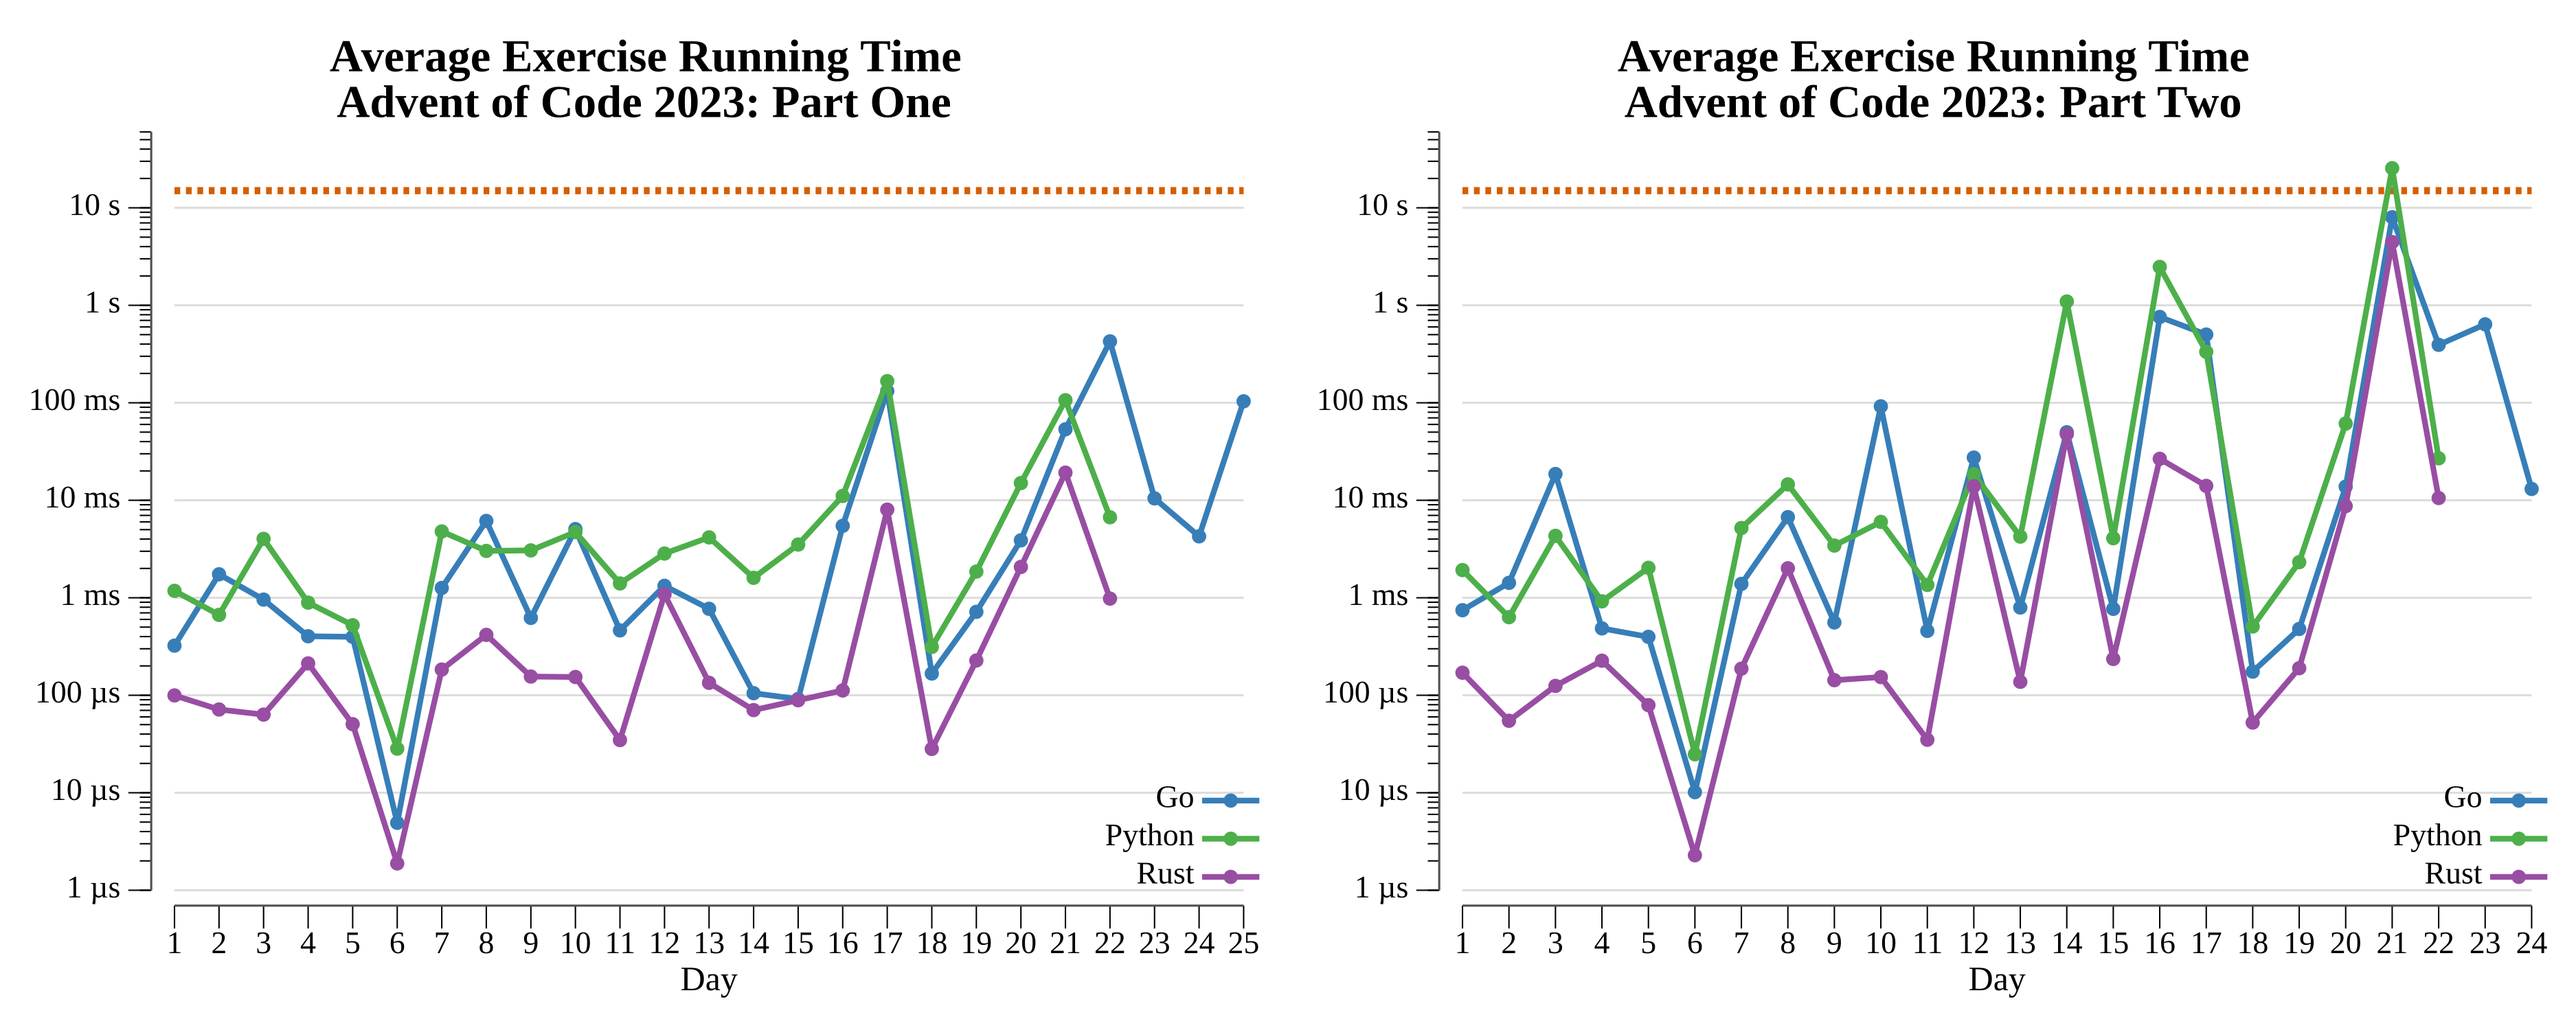
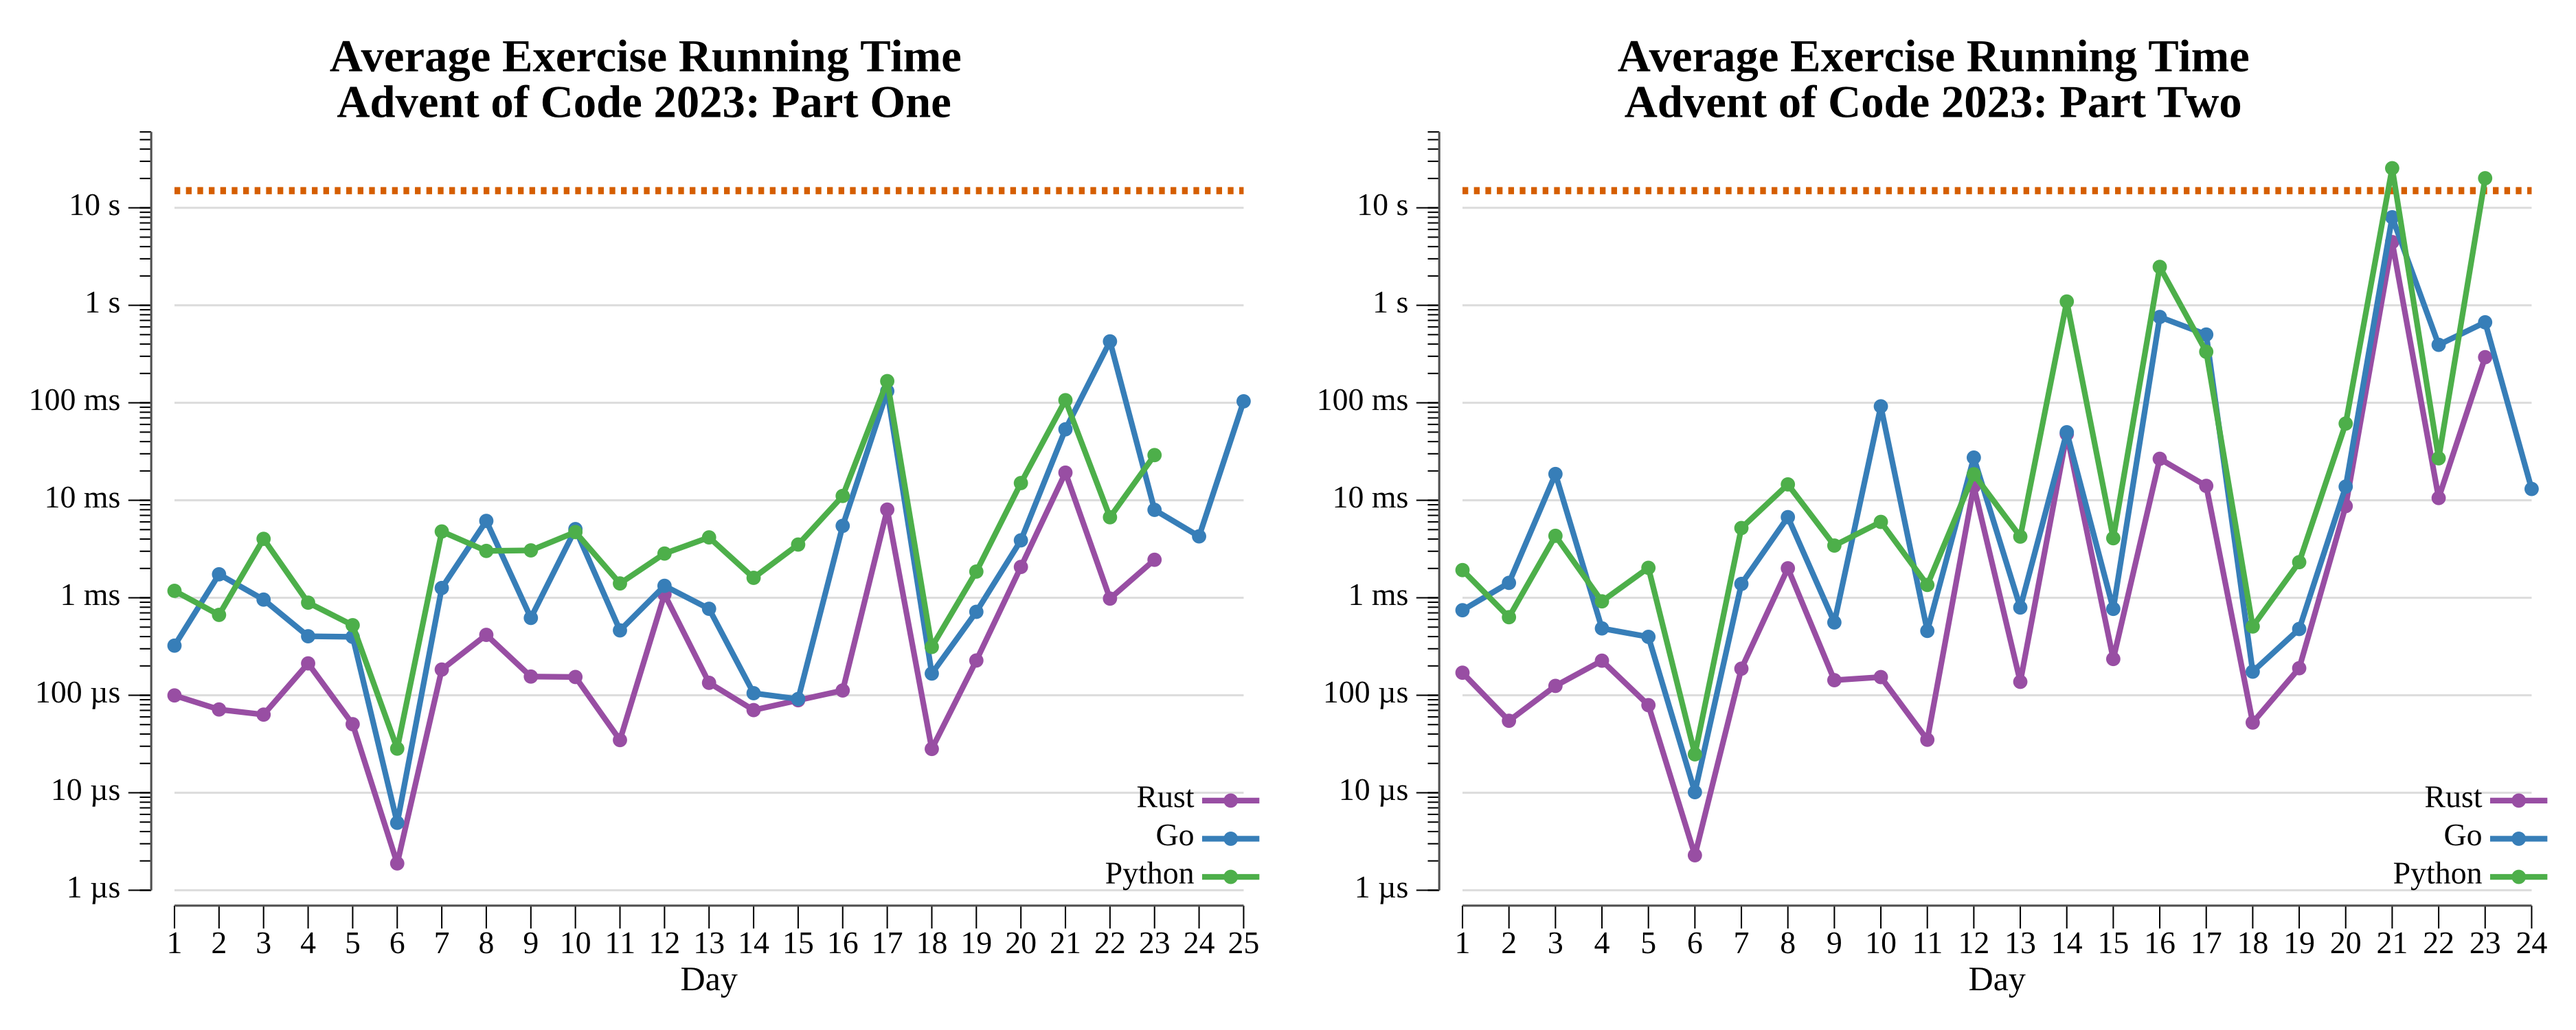
add rust/py to 2023 day 23

diff --git a/exercises/2023/23-aLongWalk/rs/src/solution.rs b/exercises/2023/23-aLongWalk/rs/src/solution.rs
@@ -1,0 +1,110 @@
+// Solution for Advent of Code 2023 day 23.
+//
+// We want the longest hike from top to bottom without revisiting a tile. The
+// trails collapse to a small graph of junctions (cells with more than two open
+// neighbors) joined by weighted corridors, so the longest-path search runs over
+// ~36 nodes instead of thousands of cells. Part one honors the slopes as one-way
+// edges; part two treats them as normal paths (edges become bidirectional).
+// Nodes are indexed so the DFS "visited" set is a u64 bitmask.
+
+use std::collections::HashMap;
+
+const NEIGHBORS: [(i32, i32); 4] = [(-1, 0), (1, 0), (0, -1), (0, 1)];
+
+fn slope_dir(tile: u8) -> Option<(i32, i32)> {
+    match tile {
+        b'^' => Some((-1, 0)),
+        b'v' => Some((1, 0)),
+        b'<' => Some((0, -1)),
+        b'>' => Some((0, 1)),
+        _ => None,
+    }
+}
+
+/// Build the compressed adjacency (node index -> [(neighbor index, length)]),
+/// returning it along with the start and end node indices.
+fn compress(grid: &[&[u8]], slippery: bool) -> (Vec<Vec<(usize, u32)>>, usize, usize) {
+    let (rows, cols) = (grid.len() as i32, grid[0].len() as i32);
+    let open = |r: i32, c: i32| {
+        r >= 0 && c >= 0 && r < rows && c < cols && grid[r as usize][c as usize] != b'#'
+    };
+
+    let start = (0i32, grid[0].iter().position(|&b| b == b'.').unwrap() as i32);
+    let end = (
+        rows - 1,
+        grid[rows as usize - 1].iter().position(|&b| b == b'.').unwrap() as i32,
+    );
+
+    // Collect junctions: start, end, and any cell with >2 open neighbors.
+    let mut nodes = vec![start, end];
+    for r in 0..rows {
+        for c in 0..cols {
+            if open(r, c) && NEIGHBORS.iter().filter(|&&(dr, dc)| open(r + dr, c + dc)).count() > 2 {
+                nodes.push((r, c));
+            }
+        }
+    }
+    let index: HashMap<(i32, i32), usize> =
+        nodes.iter().enumerate().map(|(i, &p)| (p, i)).collect();
+
+    // Walk each corridor from every junction to the next junction.
+    let mut graph = vec![Vec::new(); nodes.len()];
+    for (&(jr, jc), &ji) in &index {
+        let mut stack = vec![(jr, jc, 0u32)];
+        let mut seen = vec![(jr, jc)];
+        while let Some((r, c, dist)) = stack.pop() {
+            if dist > 0 {
+                if let Some(&ni) = index.get(&(r, c)) {
+                    graph[ji].push((ni, dist));
+                    continue;
+                }
+            }
+            let tile = grid[r as usize][c as usize];
+            // On a slope, part one may leave only in the slope's direction.
+            let forced = slippery.then(|| slope_dir(tile)).flatten();
+            let dirs: &[(i32, i32)] = match &forced {
+                Some(d) => std::slice::from_ref(d),
+                None => &NEIGHBORS,
+            };
+            for &(dr, dc) in dirs {
+                let (nr, nc) = (r + dr, c + dc);
+                if open(nr, nc) && !seen.contains(&(nr, nc)) {
+                    seen.push((nr, nc));
+                    stack.push((nr, nc, dist + 1));
+                }
+            }
+        }
+    }
+
+    (graph, index[&start], index[&end])
+}
+
+fn longest(graph: &[Vec<(usize, u32)>], node: usize, end: usize, visited: u64) -> Option<u32> {
+    if node == end {
+        return Some(0);
+    }
+    let mut best = None;
+    for &(next, weight) in &graph[node] {
+        if visited & (1 << next) == 0 {
+            if let Some(rest) = longest(graph, next, end, visited | (1 << next)) {
+                let total = weight + rest;
+                best = Some(best.map_or(total, |b: u32| b.max(total)));
+            }
+        }
+    }
+    best
+}
+
+fn solve(input: &str, slippery: bool) -> u32 {
+    let grid: Vec<&[u8]> = input.lines().map(str::as_bytes).collect();
+    let (graph, start, end) = compress(&grid, slippery);
+    longest(&graph, start, end, 1 << start).unwrap()
+}
+
+pub fn part_one(input: &str) -> String {
+    solve(input, true).to_string()
+}
+
+pub fn part_two(input: &str) -> String {
+    solve(input, false).to_string()
+}

diff --git a/exercises/2023/23-aLongWalk/py/__init__.py b/exercises/2023/23-aLongWalk/py/__init__.py
@@ -1,0 +1,77 @@
+from typing import *
+from aocpy import BaseExercise
+
+# Slope tiles and the single direction they permit, as (dr, dc).
+SLOPES = {"^": (-1, 0), "v": (1, 0), "<": (0, -1), ">": (0, 1)}
+NEIGHBORS = [(-1, 0), (1, 0), (0, -1), (0, 1)]
+
+
+def _compress(grid: list[str], slippery: bool):
+    # Collapse corridors into a weighted graph between junctions (cells with more
+    # than two open neighbors), plus start and end.
+    rows, cols = len(grid), len(grid[0])
+    start = (0, grid[0].index("."))
+    end = (rows - 1, grid[-1].index("."))
+
+    def open_cell(r, c):
+        return 0 <= r < rows and 0 <= c < cols and grid[r][c] != "#"
+
+    junctions = {start, end}
+    for r in range(rows):
+        for c in range(cols):
+            if not open_cell(r, c):
+                continue
+            if sum(open_cell(r + dr, c + dc) for dr, dc in NEIGHBORS) > 2:
+                junctions.add((r, c))
+
+    # For each junction, walk each corridor to the next junction, tracking length.
+    graph: dict[tuple, dict[tuple, int]] = {j: {} for j in junctions}
+    for jr, jc in junctions:
+        stack = [(jr, jc, 0)]
+        seen = {(jr, jc)}
+        while stack:
+            r, c, dist = stack.pop()
+            if dist and (r, c) in junctions:
+                graph[(jr, jc)][(r, c)] = dist
+                continue
+            tile = grid[r][c]
+            dirs = [SLOPES[tile]] if slippery and tile in SLOPES else NEIGHBORS
+            for dr, dc in dirs:
+                nr, nc = r + dr, c + dc
+                if open_cell(nr, nc) and (nr, nc) not in seen:
+                    seen.add((nr, nc))
+                    stack.append((nr, nc, dist + 1))
+
+    return graph, start, end
+
+
+def _longest(graph, start, end) -> int:
+    best = -1
+    seen: set[tuple] = set()
+
+    def dfs(node, dist):
+        nonlocal best
+        if node == end:
+            best = max(best, dist)
+            return
+        seen.add(node)
+        for nxt, weight in graph[node].items():
+            if nxt not in seen:
+                dfs(nxt, dist + weight)
+        seen.remove(node)
+
+    dfs(start, 0)
+    return best
+
+
+# Exercise for Advent of Code 2023 day 23.
+class Exercise(BaseExercise):
+    @staticmethod
+    def one(instr: str) -> int:
+        graph, start, end = _compress(instr.splitlines(), slippery=True)
+        return _longest(graph, start, end)
+
+    @staticmethod
+    def two(instr: str) -> int:
+        graph, start, end = _compress(instr.splitlines(), slippery=False)
+        return _longest(graph, start, end)

diff --git a/exercises/2023/23-aLongWalk/README.md b/exercises/2023/23-aLongWalk/README.md
@@ -20,8 +20,38 @@
 
 ## Python
 
+The trails compress to a weighted graph of junctions (cells with more than two
+open neighbors) joined by corridor lengths, so the longest-path DFS runs over
+~36 nodes rather than every cell. Part one honors slopes as one-way corridors;
+part two makes them ordinary. The DFS is the plain recursive version — correct,
+but the slowest of the three on the exponential part two.
+
 ```text
-< section intentionally left blank >
+──────────────────────────────
+      ADVENT OF CODE 2023
+     Day 23: A Long Walk
+──────────────────────────────
+
+Solving (Python)…
+1.0:  PASS              0.030s
+2.0:  PASS             20.334s
+```
+
+## Rust
+
+The same junction-graph compression, but nodes are indexed so the DFS "visited"
+set is a `u64` bitmask — making the exponential longest-path search fast enough to
+finish part two in a third of a second.
+
+```text
+──────────────────────────────
+      ADVENT OF CODE 2023
+     Day 23: A Long Walk
+──────────────────────────────
+
+Solving (Rust)…
+1.0:  PASS             3.093ms
+2.0:  PASS           332.700ms
 ```
 
 ## 2023 Run Times

diff --git a/exercises/2023/README.md b/exercises/2023/README.md
@@ -28,7 +28,7 @@
 | [Day 20: Pulse Propagation][rm20]             |  ⭐⭐   | [Go][go20] · [Rust][rs20] · [Python][py20] |
 | [Day 21: Step Counter][rm21]                  |  ⭐⭐   | [Go][go21] · [Rust][rs21] · [Python][py21] |
 | [Day 22: Sand Slabs][rm22]                    |  ⭐⭐   | [Go][go22] · [Rust][rs22] · [Python][py22] |
-| [Day 23: A Long Walk][rm23]                   |  ⭐⭐   | [Go][go23] |
+| [Day 23: A Long Walk][rm23]                   |  ⭐⭐   | [Go][go23] · [Rust][rs23] · [Python][py23] |
 | [Day 24: Never Tell Me The Odds][rm24]        |  ⭐⭐   | [Go][go24] |
 | [Day 25: Snowverload][rm25]                   |  ⭐⭐   | [Go][go25] |
 
@@ -160,6 +160,8 @@ Day       Time   Rank  Score       Time   Rank  Score
 [py22]: 22-sandSlabs/py
 [rm23]: 23-aLongWalk/README.md
 [go23]: 23-aLongWalk/go
+[rs23]: 23-aLongWalk/rs
+[py23]: 23-aLongWalk/py
 [rm24]: 24-neverTellMeTheOdds/README.md
 [go24]: 24-neverTellMeTheOdds/go
 [rm25]: 25-snowverload/README.md
